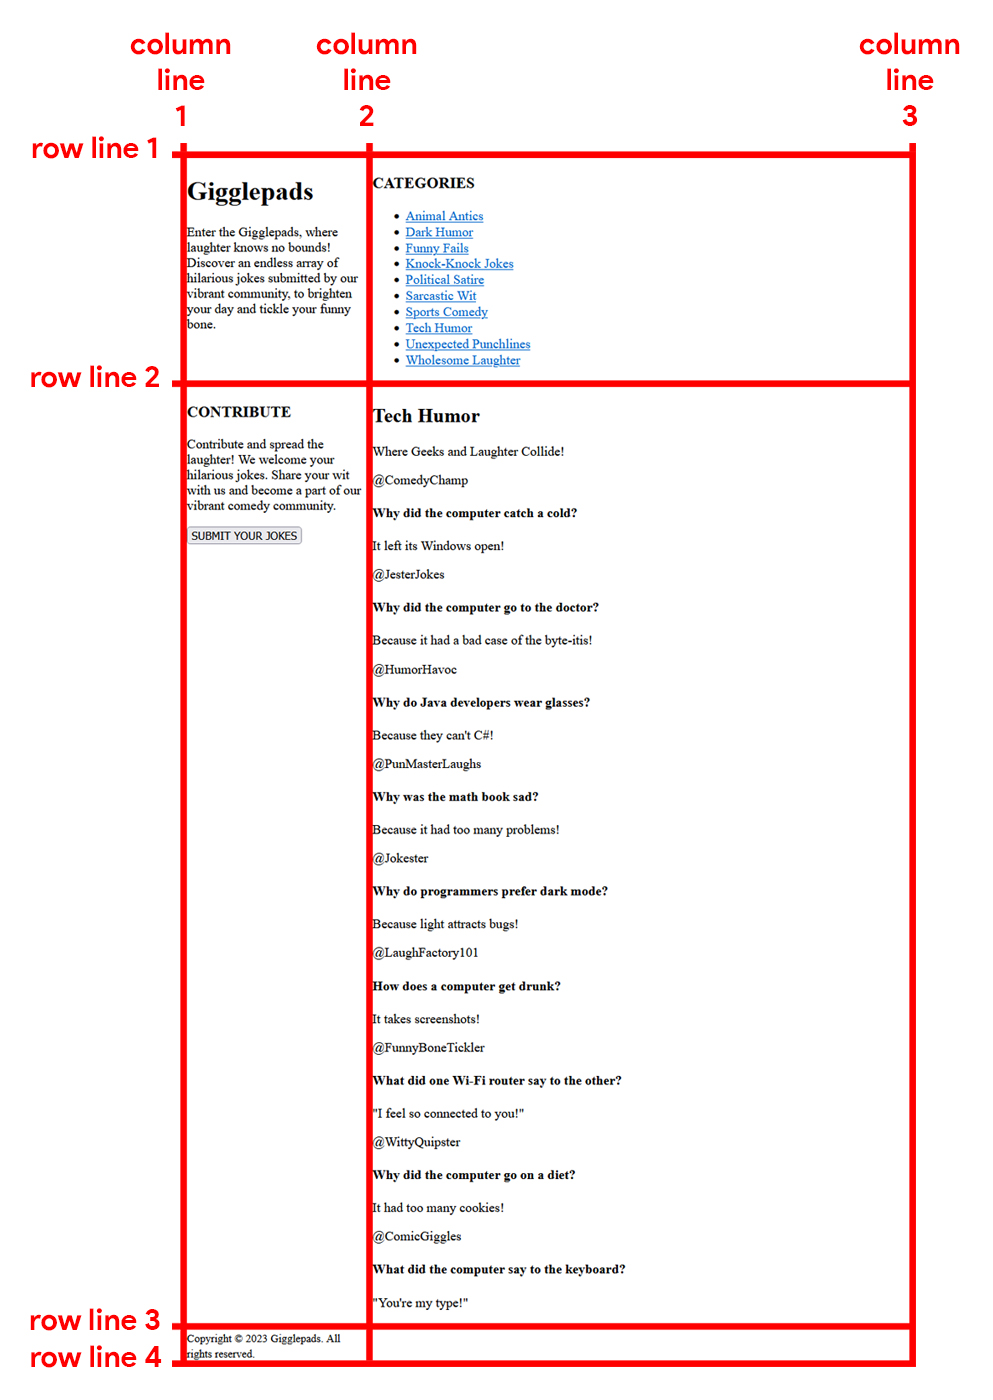
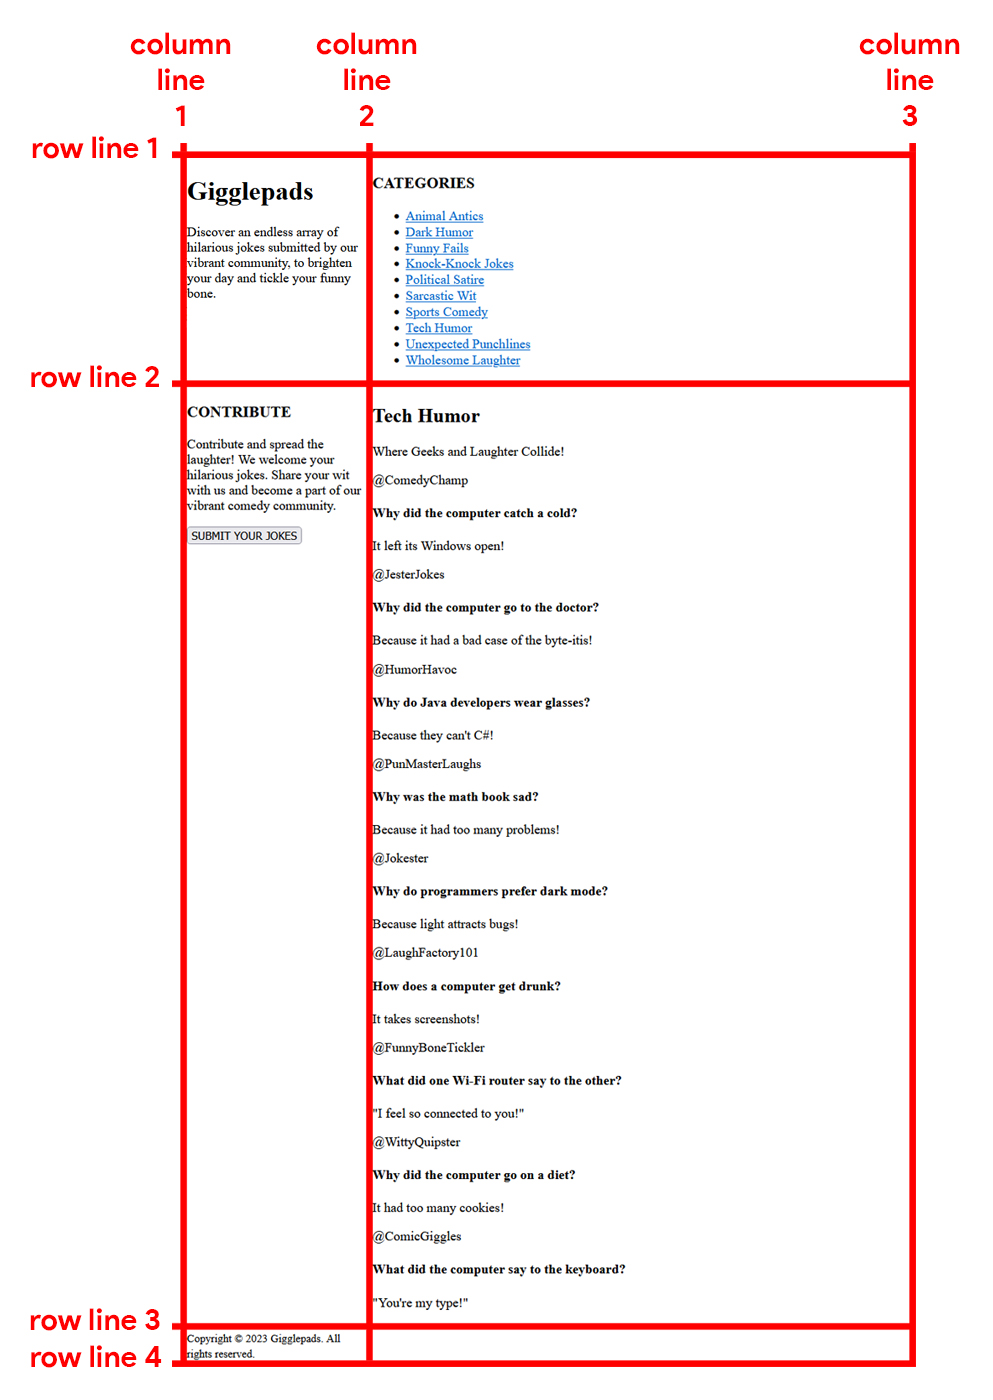
Update content.

Changed region(s): [[0.1873, 0.1536, 0.3746, 0.2457]]

diff --git a/README.md b/README.md
@@ -1,4 +1,4 @@
-## CSS | Activity #1 (Guided): Grid Layout, Fonts, Whitespaces, and Colors
+## CSS | Activity #1 (Guided): Grid Layout, Fonts, Colors, and Whitespaces
 In this activity, we will create a webpage called **Gigglepads** with the following content:
 
 ![final-output](assets/css-01--01-final-output.jpg)
@@ -63,7 +63,6 @@ We will simply use the HTML layout tags to define the relevant parts of our webp
     <header>
         <h1>Gigglepads</h1>
         <p>
-            Enter the Gigglepads, where laughter knows no bounds!
             Discover an endless array of hilarious jokes
             submitted by our vibrant community,
             to brighten your day and tickle your funny bone.
